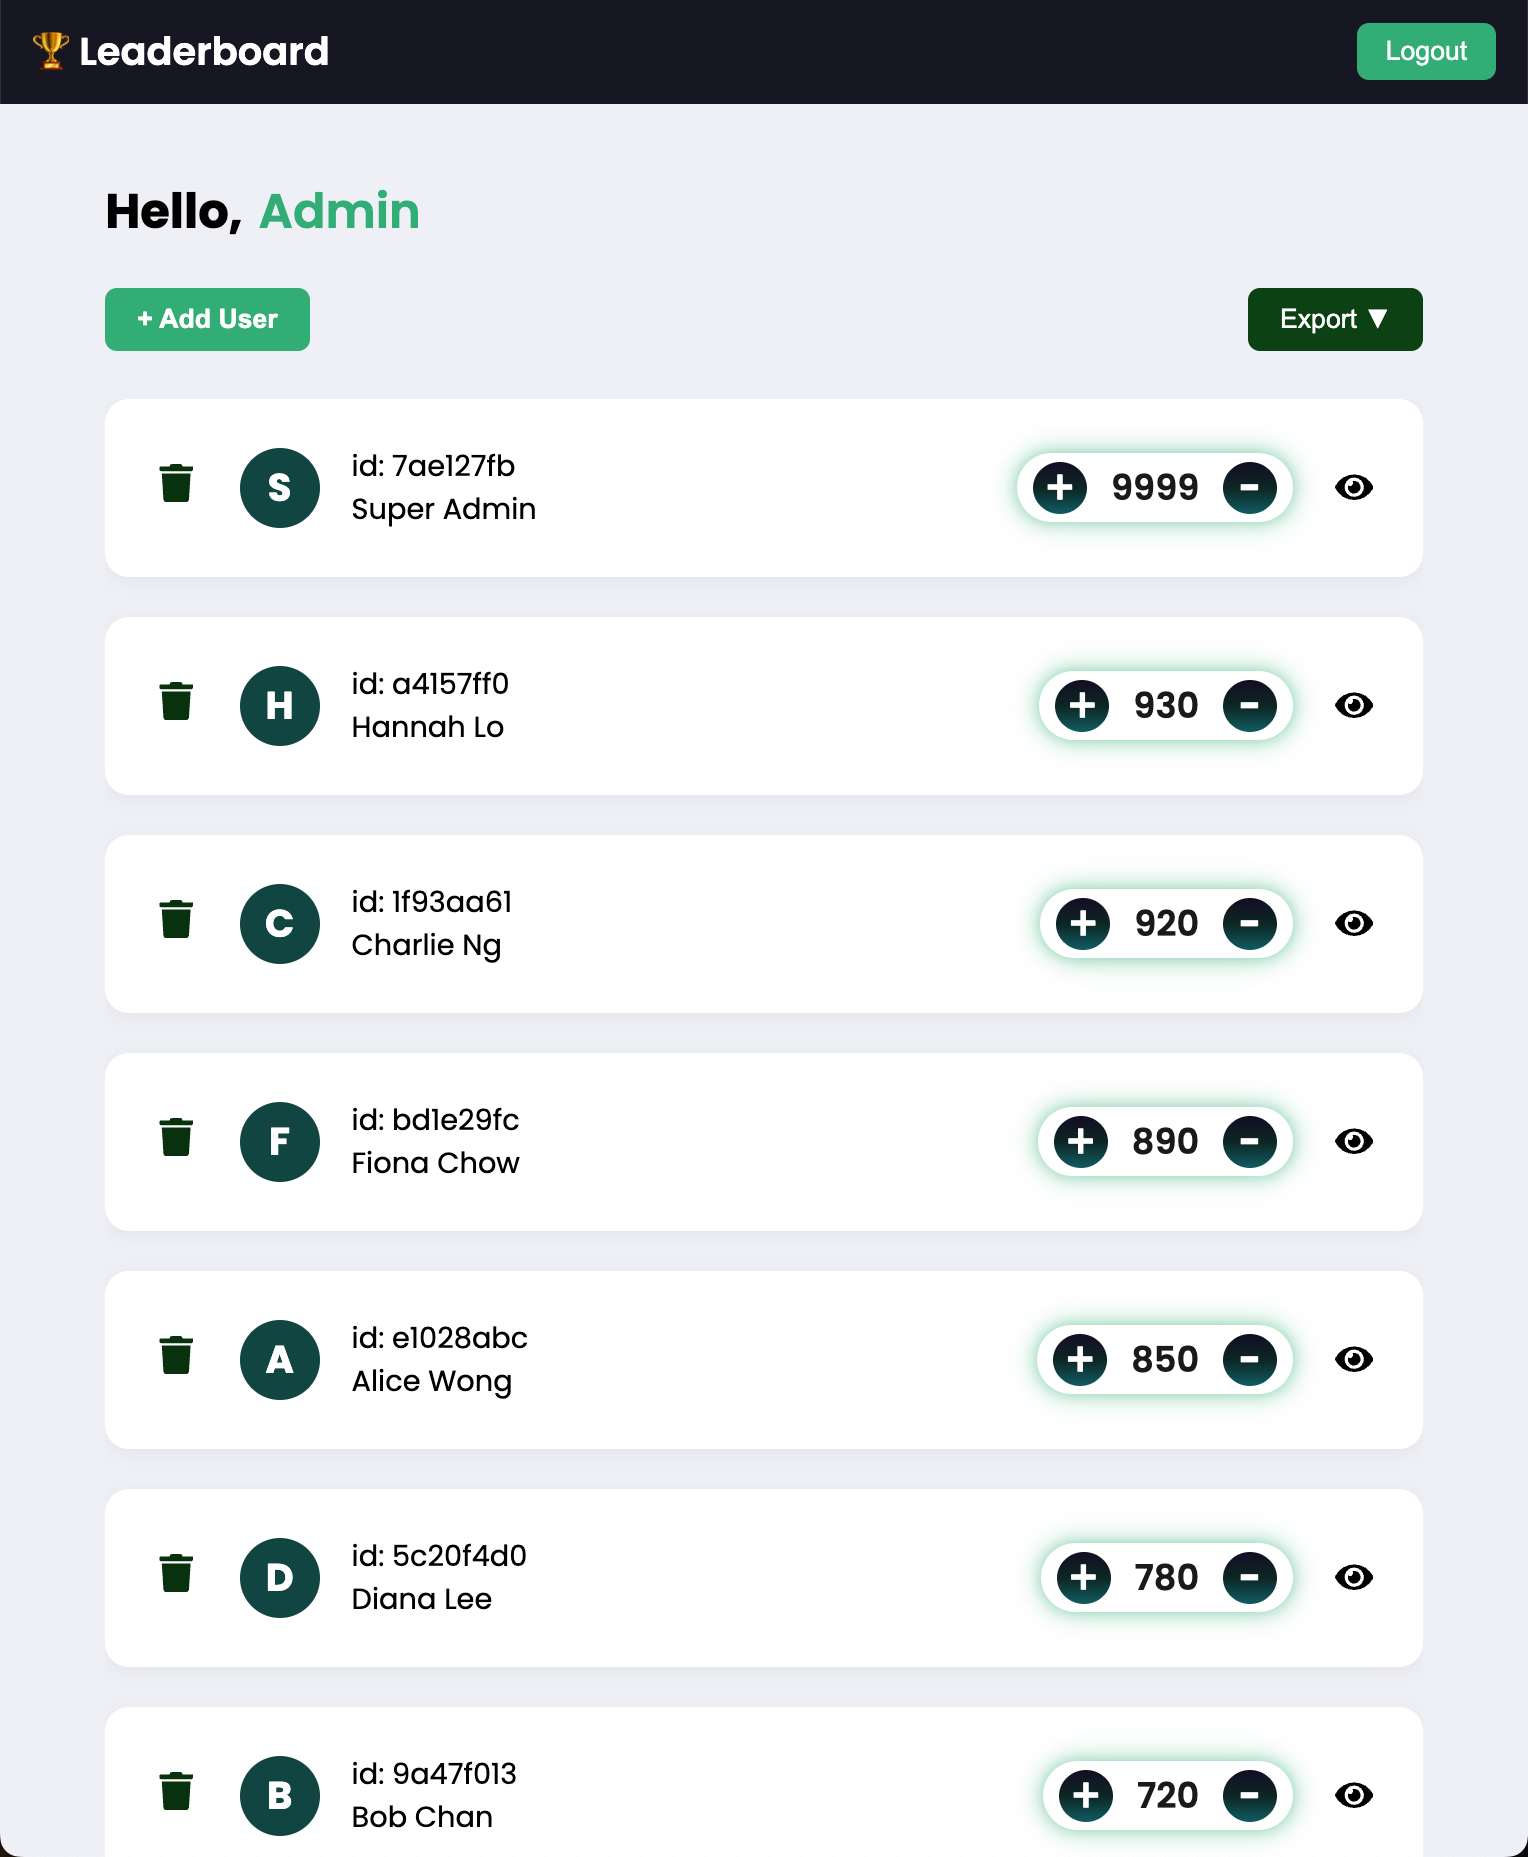
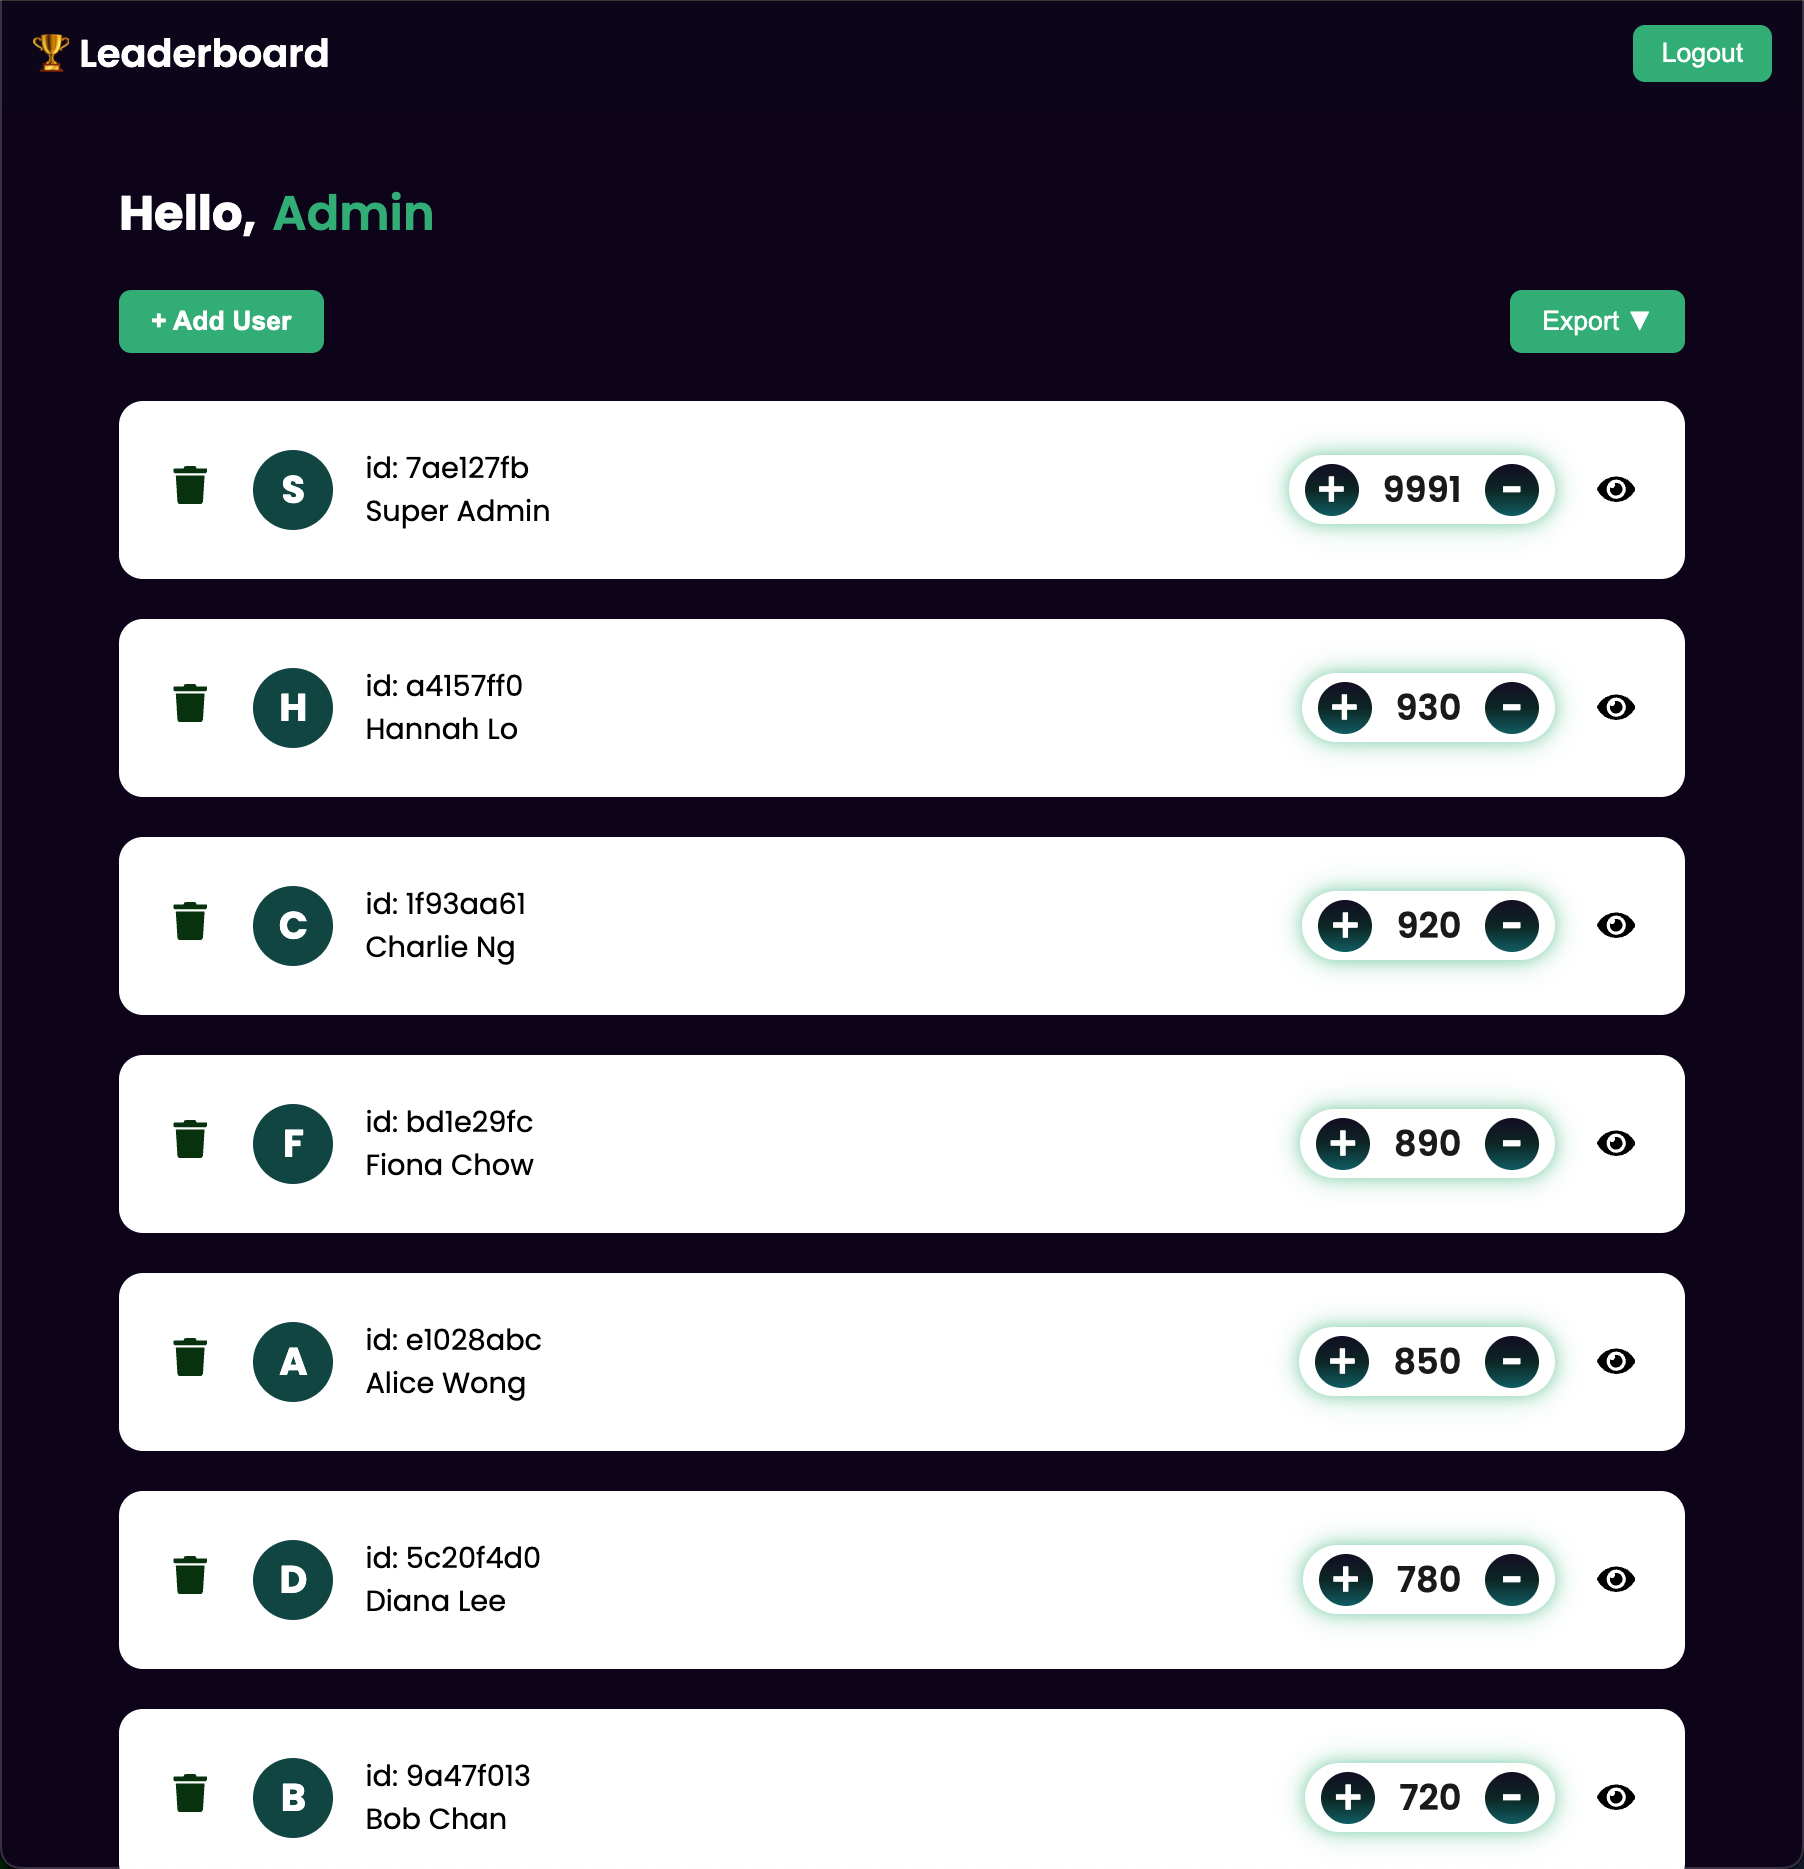
chore: update README with public demo preview and enhance animations

diff --git a/frontend/src/pages/LoginPage/LoginPage.tsx b/frontend/src/pages/LoginPage/LoginPage.tsx
@@ -4,6 +4,7 @@ import API from "@/services/api";
 import { saveTokenWithRole } from "@/services/auth";
 import "./LoginPage.css";
 import { connectSocket } from "@/socket/websocket";
+import { motion } from "framer-motion";
 
 const LoginPage: React.FC = () => {
   const [username, setUsername] = useState("");
@@ -41,29 +42,36 @@ const LoginPage: React.FC = () => {
   };
 
   return (
-    <div className="login-container">
-      <div className="login-box">
-        <form onSubmit={handleSubmit}>
-           
-            <h1>Leaderboard</h1>
-            <h4>Login to your account</h4>
-          <input
-            type="text"
-            placeholder="Username"
-            value={username}
-            onChange={(e) => setUsername(e.target.value)}
-          />
-          <input
-            type="password" 
-            placeholder="Password"
-            value={password}
-            onChange={(e) => setPassword(e.target.value)}
-          />
-          <button type="submit">Login</button>
-        </form>
-        {error && <p className="error">{error}</p>}
-      </div>
-    </div>
+    <motion.div
+    initial={{ opacity: 0, y: 12 }}
+    animate={{ opacity: 1, y: 0 }}
+    exit={{ opacity: 0, y: -12 }}
+    transition={{ duration: 0.8 }}  
+    >
+        <div className="login-container">
+        <div className="login-box">
+            <form onSubmit={handleSubmit}>
+            
+                <h1>Leaderboard</h1>
+                <h4>Login to your account</h4>
+            <input
+                type="text"
+                placeholder="Username"
+                value={username}
+                onChange={(e) => setUsername(e.target.value)}
+            />
+            <input
+                type="password" 
+                placeholder="Password"
+                value={password}
+                onChange={(e) => setPassword(e.target.value)}
+            />
+            <button type="submit">Login</button>
+            </form>
+            {error && <p className="error">{error}</p>}
+        </div>
+        </div>
+    </motion.div>
   );
 };
 

diff --git a/frontend/src/pages/AdminLeaderboardPage/AdminLeaderboardPage.tsx b/frontend/src/pages/AdminLeaderboardPage/AdminLeaderboardPage.tsx
@@ -10,6 +10,7 @@ import { filterFields } from "@/utils/objectUtils";
 import { handleApiError } from "@/utils/errorUtils";
 import { registerUserTableEventHandler } from "@/socket/eventHandler";
 import { getSocket } from "@/socket/websocket";
+import { motion } from "framer-motion";
 
 import Navbar from "@/components/Navbar/Navbar";
 import UserModal from "@/components/UserModal/UserModal";
@@ -183,7 +184,12 @@ const AdminLeaderboardPage: React.FC = () => {
   };
 
   return (
-    <div>
+    <motion.div
+      initial={{ opacity: 0, y: 12 }}
+      animate={{ opacity: 1, y: 0 }}
+      exit={{ opacity: 0, y: -12 }}
+      transition={{ duration: 0.8 }}    
+    >
       <Navbar />
       <div className="container">
         <div className="content-wrapper">
@@ -283,7 +289,7 @@ const AdminLeaderboardPage: React.FC = () => {
           </div>
         </div>
       </div>
-    </div>
+    </motion.div>
   );
 };
 

diff --git a/frontend/src/pages/UserLeaderboardPage/UserLeaderboardPage.tsx b/frontend/src/pages/UserLeaderboardPage/UserLeaderboardPage.tsx
@@ -7,6 +7,7 @@ import Navbar from "@/components/Navbar/Navbar";
 import { registerUserTableEventHandler } from "@/socket/eventHandler";
 import { getSocket } from "@/socket/websocket";
 import { User } from "@/utils/types";
+import { motion } from "framer-motion";
 
 const UserLeaderboardPage: React.FC = () => {
   const [users, setUsers] = useState<User[]>([]);
@@ -49,7 +50,12 @@ const UserLeaderboardPage: React.FC = () => {
   };
 
   return (
-    <div>
+    <motion.div
+        initial={{ opacity: 0, y: 12 }}
+        animate={{ opacity: 1, y: 0 }}
+        exit={{ opacity: 0, y: -12 }}
+        transition={{ duration: 0.3 }}
+    >
       <Navbar />
       <div className="user-container">
         <div className="content-wrapper">
@@ -81,7 +87,7 @@ const UserLeaderboardPage: React.FC = () => {
           </div>
         </div>
       </div>
-    </div>
+    </motion.div>
   );
 };
 

diff --git a/frontend/src/pages/UserLeaderboardPage/UserLeaderboardPage.css b/frontend/src/pages/UserLeaderboardPage/UserLeaderboardPage.css
@@ -1,14 +1,18 @@
 .user-container {
     padding: 1rem;
-    background-color: #F2F3F7;
     min-width: 375px;
     overflow: hidden;
+    background-color: #0F0423;
   }
   
   .greeting-row {
     display: flex;
     align-items: center;
     gap: 0.5rem;
+  }
+  
+  .greeting-text{
+      color: white;
   }
   
   .greeting-name {
@@ -21,7 +25,6 @@
     margin: 0 auto;
     width: 90%;
   }
-
   .user-form {
     display: flex;
     flex-wrap: wrap;

diff --git a/frontend/src/pages/AdminLeaderboardPage/AdminLeaderboardPage.css b/frontend/src/pages/AdminLeaderboardPage/AdminLeaderboardPage.css
@@ -1,6 +1,5 @@
 .container {
   padding: 1rem;
-  background-color: #F2F3F7;
   min-width: 375px;
   overflow: hidden;
   background-color: #0F0423;
@@ -20,11 +19,13 @@
   color: #39B888; 
   font-weight: 600;
 }
+
 .content-wrapper {
   max-width: 1000px;
   margin: 0 auto;
   width: 90%;
 }
+
 .action-bar {
   display: flex;
   justify-content: space-between;

diff --git a/frontend/src/index.css b/frontend/src/index.css
@@ -2,6 +2,6 @@ html, body {
     margin: 0;
     padding: 0;
     height: 100%;
-    background-color: #f3f4f6; 
+    background-color: #0d0f18; 
     font-family: "Poppins", sans-serif;
 }

diff --git a/README.md b/README.md
@@ -38,8 +38,9 @@ Configure your variables in postman
 
 ### 🏞 Preview
 ![Login](public/login.jpg)
-![Leaderboard](public/admin-leaderboard.jpg)
+![AdminLeaderboard](public/admin-leaderboard.jpg)
 ![Leaderboard](public/leaderboard.jpg)
+![UserModal](public/user-modal.jpg)
 ![csv](public/csv.jpg)
 ![pdf](public/pdf.jpg)
 ![eventlog](public/eventlog.jpg)
